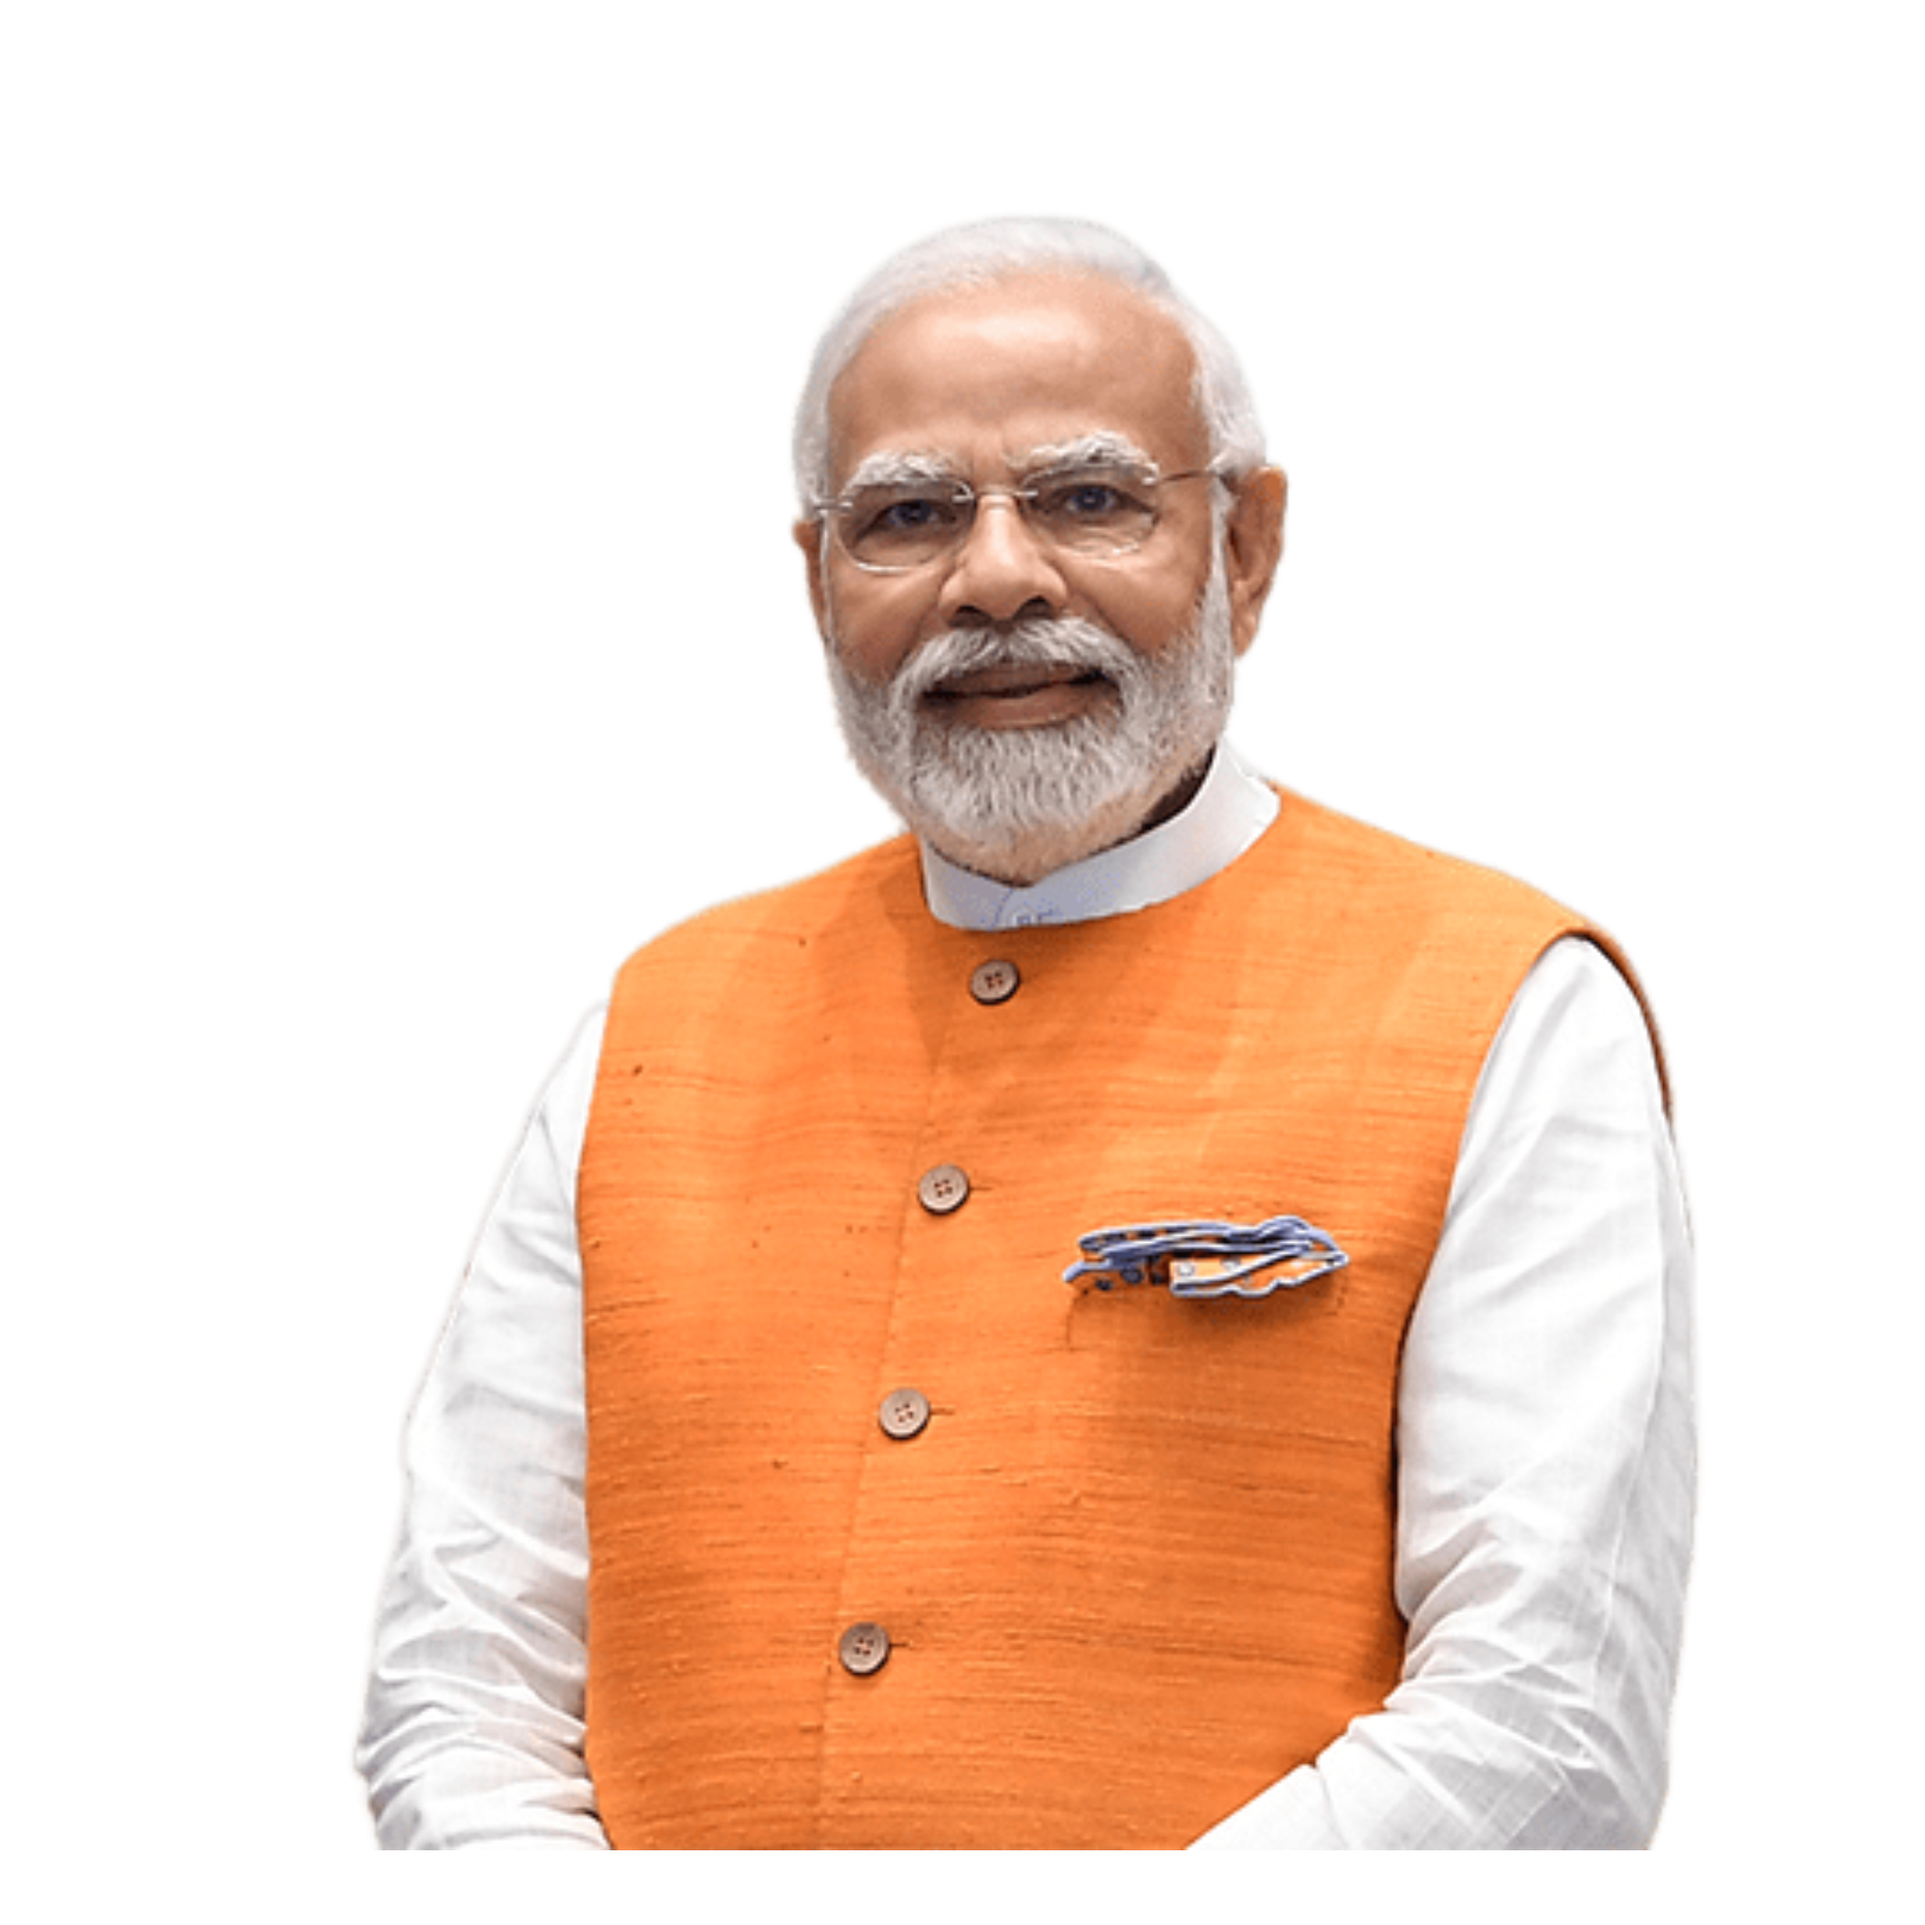
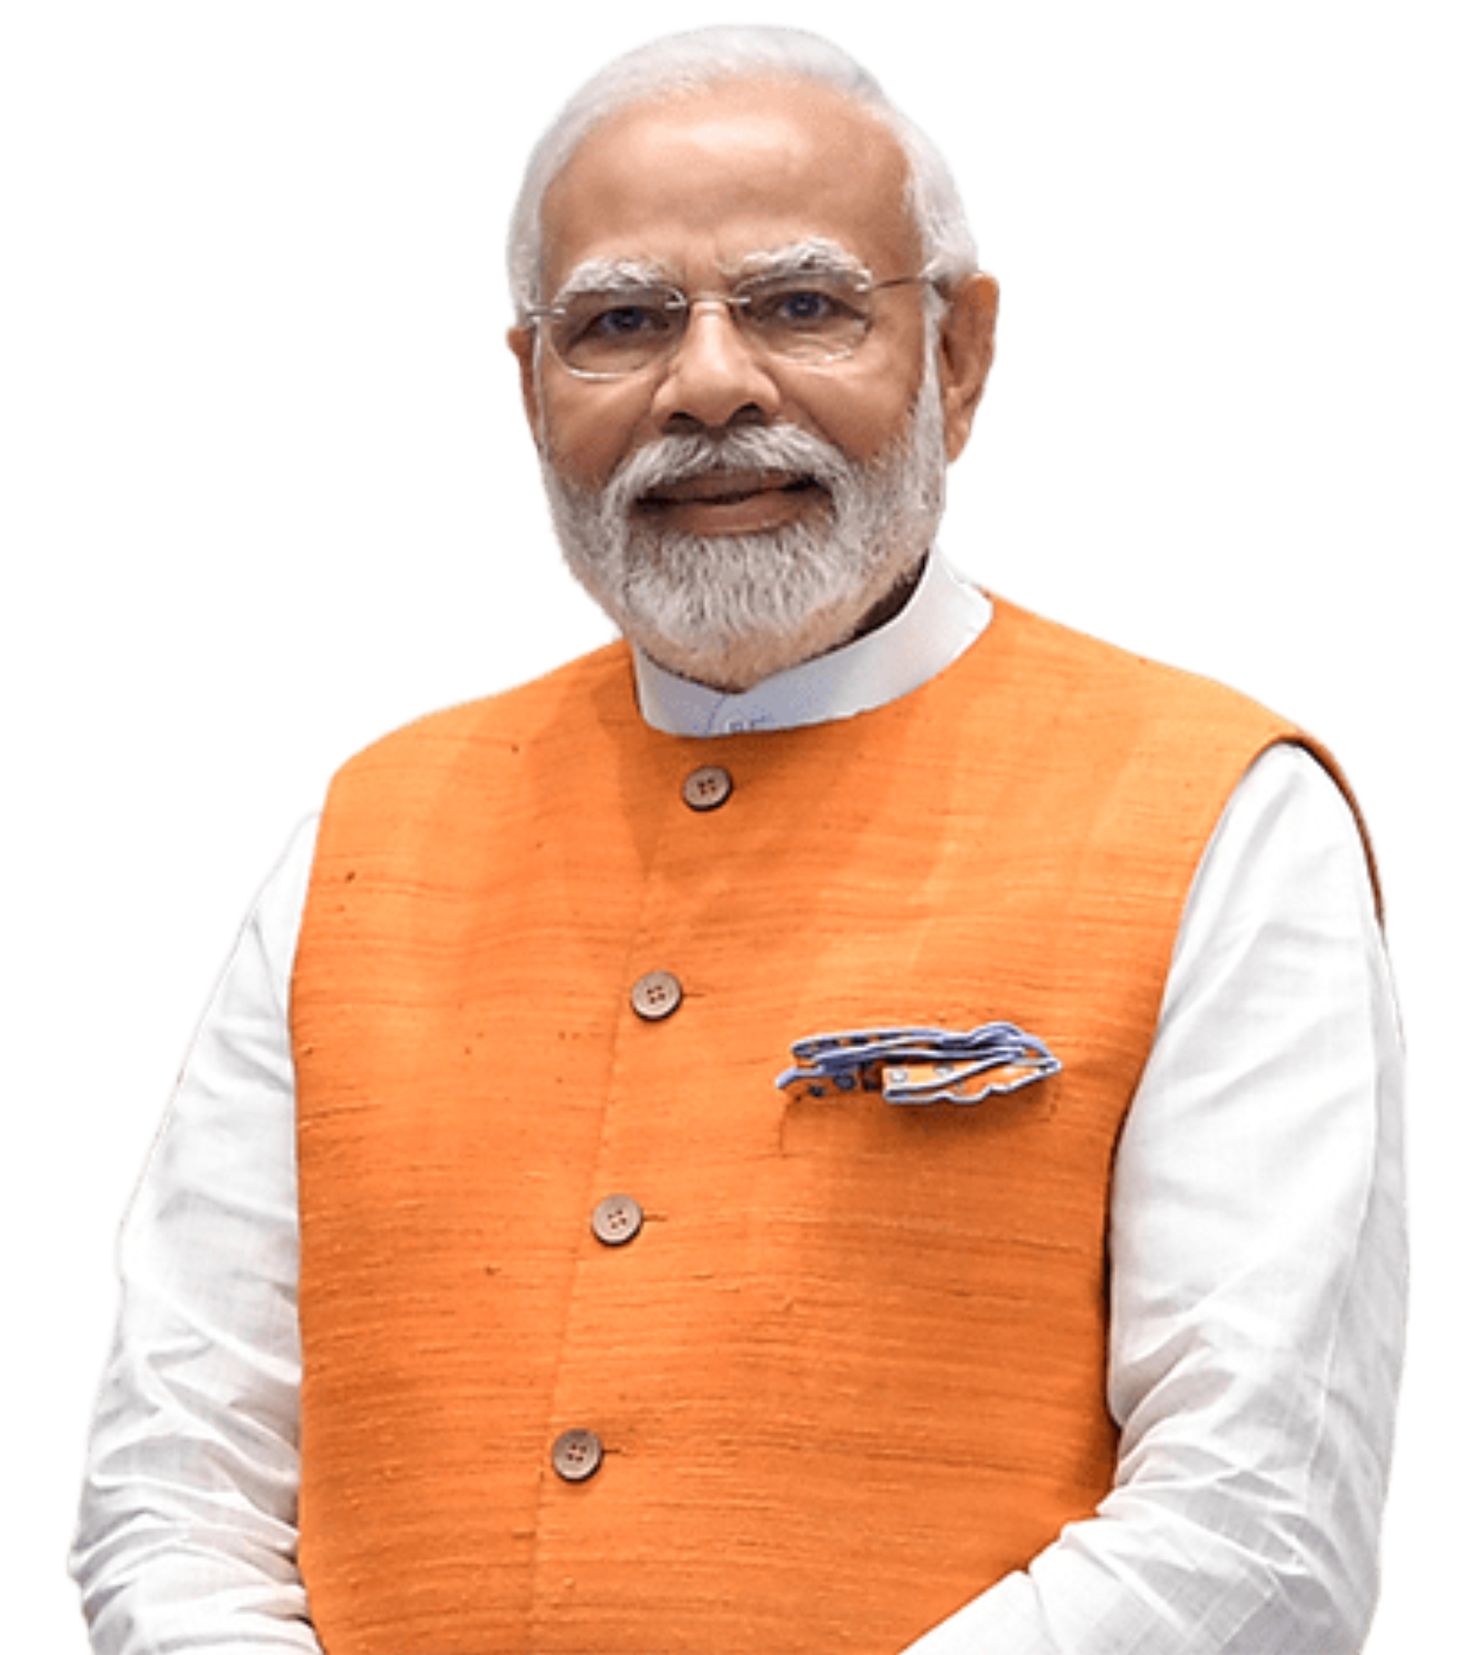
Landing Ekdum Final

diff --git a/pages/index.js b/pages/index.js
@@ -5,28 +5,27 @@ import Link from 'next/link';
 export default function Home() {
 
   return (
-
     <>
       <Flex direction={{ base: 'column', md: 'row' }} px={4} bg="white" color="black" align="center" justify="space-between" w="100%">
         {/* Left Section */}
         <Flex align="center">
-          <Image src="Emb.png" alt="Banner Image" boxSize="80px" borderRadius="10px" mr={2} bg={'white'} width={'100px'} mt={'15px'} />
+          <Image src="Emb.png" alt="Banner Image" boxSize="70px" borderRadius="10px" mr={2} bg={'white'} width={'90px'} mt={'38px'}height={'100px'} />
           <Stack>
-            <Heading fontSize={{ base: 'sm', md: 'md' }} mt={'10px'} mb={-3}>विधि और न्याय मंत्रालय</Heading>
-            <Text fontWeight="bold" textTransform={'uppercase'} fontSize={{ base: 'xl', md: '2xl' }}>Ministry of Law & <br style={{ margin: '-0.7em' }} />Justice</Text>
+            <Heading fontSize={{ base: 'sm', md: 'md' }} mt={'25px'} mb={-3} >विधि और न्याय मंत्रालय</Heading>
+            <Text fontWeight="bold" textTransform={'uppercase'} fontSize={{ base: 'xl', md: '2xl' }} >Ministry of Law & <br style={{ margin: '-0.7em' }} />Justice</Text>
           </Stack>
         </Flex>
 
         {/* Right Section */}
         <Flex align="center">
-          <Image src="g20.png" alt="Right Image" boxSize="80px" borderRadius="10px" ml={4} width={'150px'} />
+          <Image src="g20.png" alt="Right Image" boxSize="80px" borderRadius="10px" ml={4} mt={4} width={'150px'} />
         </Flex>
       </Flex>
 
-      <Stack direction={{ base: 'column-reverse', md: 'row' }}>
+      <Stack direction={{ base: 'column', md: 'row' }}>
         <Flex px={8} flex={1} align={'center'} justify={'center'}>
           <Stack spacing={6} w={'full'} maxW={'lg'}>
-            <Image src='/icon.svg' alt="Logo" width="75px"></Image>
+            <Image src='/icon.svg' alt="Logo" width="85px" mt={'30px'} mb={'-30px'}></Image>
             <Heading fontSize={{ base: '3xl', md: '4xl', lg: '5xl' }}>
               <Text
                 as={'span'}
@@ -71,12 +70,15 @@ export default function Home() {
           </Stack>
         </Flex>
         <Flex flex={1} p={8}>
-          <div style={{ display: 'flex', justifyContent: 'center', alignItems: 'center' }}>
+          <div style={{ display: 'flex', justifyContent: 'center', alignItems: 'center'  }}>
             <Image
+            mt={'-10px'}
+            ml={{base: 0, lg: '185px'}}
               alt={'Login Image'}
               objectFit={'cover'}
               src='Modi.png'
               style={{
+                width:'450px',
                 borderRadius: '10px', // Add rounded corners
                 overflow: 'hidden', // Hide overflow content
 
